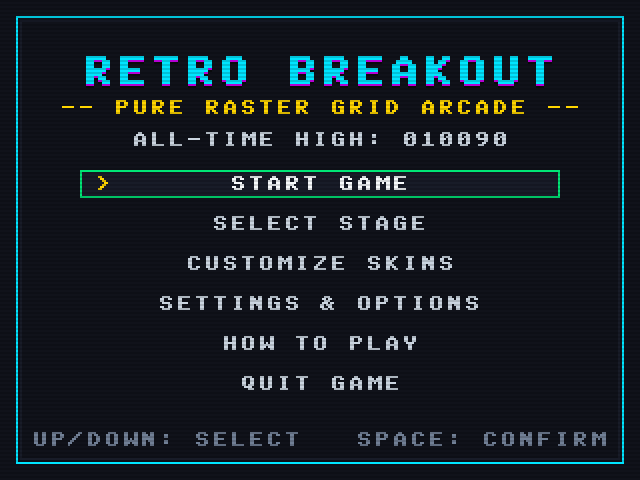
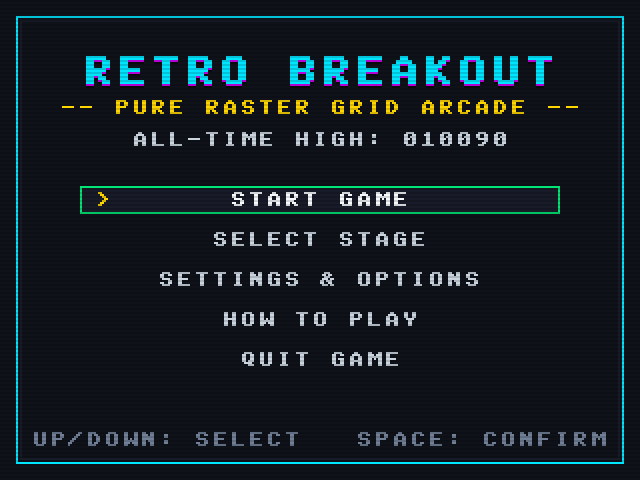
refactor: simplify to board and ball presets in Settings, remove separate customizer

Changed region(s): [[0.125, 0.3438, 0.875, 0.8125]]

diff --git a/src/core/GameEngine.cpp b/src/core/GameEngine.cpp
@@ -122,9 +122,7 @@ void GameEngine::setMouseTargetX(float x) {
 void GameEngine::menuUp() {
     SoundManager::instance().play(SoundEffect::MenuSelect);
     if (m_state == GameState::MainMenu) {
-        m_mainMenuIndex = (m_mainMenuIndex + 5) % 6;
-    } else if (m_state == GameState::CustomizeSkins) {
-        m_customizeMenuIndex = (m_customizeMenuIndex + 2) % 3;
+        m_mainMenuIndex = (m_mainMenuIndex + 4) % 5;
     } else if (m_state == GameState::Paused) {
         m_pauseMenuIndex = (m_pauseMenuIndex + 4) % 5;
     } else if (m_state == GameState::OptionsMenu) {
@@ -137,9 +135,7 @@ void GameEngine::menuUp() {
 void GameEngine::menuDown() {
     SoundManager::instance().play(SoundEffect::MenuSelect);
     if (m_state == GameState::MainMenu) {
-        m_mainMenuIndex = (m_mainMenuIndex + 1) % 6;
-    } else if (m_state == GameState::CustomizeSkins) {
-        m_customizeMenuIndex = (m_customizeMenuIndex + 1) % 3;
+        m_mainMenuIndex = (m_mainMenuIndex + 1) % 5;
     } else if (m_state == GameState::Paused) {
         m_pauseMenuIndex = (m_pauseMenuIndex + 1) % 5;
     } else if (m_state == GameState::OptionsMenu) {
@@ -153,16 +149,6 @@ void GameEngine::menuLeft() {
     if (m_state == GameState::LevelSelect) {
         SoundManager::instance().play(SoundEffect::MenuChange);
         m_levelSelectIndex = (m_levelSelectIndex + m_levelManager.getTotalLevels() - 1) % m_levelManager.getTotalLevels();
-        return;
-    }
-
-    if (m_state == GameState::CustomizeSkins) {
-        SoundManager::instance().play(SoundEffect::MenuChange);
-        if (m_customizeMenuIndex == 0) {
-            setPaddleSkin(static_cast<PaddleSkin>((static_cast<int>(m_paddleSkin) + 3) % 4));
-        } else if (m_customizeMenuIndex == 1) {
-            setBallSkin(static_cast<BallSkin>((static_cast<int>(m_ballSkin) + 3) % 4));
-        }
         return;
     }
 
@@ -181,10 +167,10 @@ void GameEngine::menuLeft() {
             case 3: // Theme
                 m_paletteTheme = static_cast<PaletteTheme>((static_cast<int>(m_paletteTheme) + 5) % 6);
                 break;
-            case 4: // Paddle Skin
+            case 4: // Paddle / Board Preset
                 setPaddleSkin(static_cast<PaddleSkin>((static_cast<int>(m_paddleSkin) + 3) % 4));
                 break;
-            case 5: // Ball Skin
+            case 5: // Ball Preset
                 setBallSkin(static_cast<BallSkin>((static_cast<int>(m_ballSkin) + 3) % 4));
                 break;
             case 6: { // Audio
@@ -211,16 +197,6 @@ void GameEngine::menuRight() {
     if (m_state == GameState::LevelSelect) {
         SoundManager::instance().play(SoundEffect::MenuChange);
         m_levelSelectIndex = (m_levelSelectIndex + 1) % m_levelManager.getTotalLevels();
-        return;
-    }
-
-    if (m_state == GameState::CustomizeSkins) {
-        SoundManager::instance().play(SoundEffect::MenuChange);
-        if (m_customizeMenuIndex == 0) {
-            setPaddleSkin(static_cast<PaddleSkin>((static_cast<int>(m_paddleSkin) + 1) % 4));
-        } else if (m_customizeMenuIndex == 1) {
-            setBallSkin(static_cast<BallSkin>((static_cast<int>(m_ballSkin) + 1) % 4));
-        }
         return;
     }
 
@@ -285,32 +261,18 @@ void GameEngine::menuConfirm() {
                 m_levelSelectIndex = m_levelManager.getCurrentLevelIndex();
                 m_state = GameState::LevelSelect;
                 break;
-            case 2: // Customize Skins
-                m_previousState = GameState::MainMenu;
-                m_customizeMenuIndex = 0;
-                m_state = GameState::CustomizeSkins;
-                break;
-            case 3: // Options
+            case 2: // Options
                 m_previousState = GameState::MainMenu;
                 m_optionsMenuIndex = 0;
                 m_state = GameState::OptionsMenu;
                 break;
-            case 4: // Help
+            case 3: // Help
                 m_previousState = GameState::MainMenu;
                 m_state = GameState::HelpMenu;
                 break;
-            case 5: // Quit
+            case 4: // Quit
                 QCoreApplication::quit();
                 break;
-        }
-        return;
-    }
-
-    if (m_state == GameState::CustomizeSkins) {
-        if (m_customizeMenuIndex == 2) {
-            menuBack();
-        } else {
-            menuRight();
         }
         return;
     }
@@ -365,7 +327,7 @@ void GameEngine::menuConfirm() {
 void GameEngine::menuBack() {
     SoundManager::instance().play(SoundEffect::MenuChange);
     if (m_state == GameState::OptionsMenu || m_state == GameState::LevelSelect ||
-        m_state == GameState::HelpMenu || m_state == GameState::CustomizeSkins) {
+        m_state == GameState::HelpMenu) {
         m_state = m_previousState;
     } else if (m_state == GameState::Playing) {
         m_state = GameState::Paused;
@@ -383,24 +345,13 @@ void GameEngine::handleMouseMove(float vx, float /*vy*/) {
 
 void GameEngine::handleMouseClick(float vx, float vy) {
     if (m_state == GameState::MainMenu) {
-        for (int i = 0; i < 6; ++i) {
-            int itemY = 92 + i * 20;
+        for (int i = 0; i < 5; ++i) {
+            int itemY = 96 + i * 20;
             if (vy >= itemY - 4 && vy <= itemY + 16 && vx >= 40 && vx <= 280) {
                 m_mainMenuIndex = i;
                 menuConfirm();
                 return;
             }
-        }
-        return;
-    } else if (m_state == GameState::CustomizeSkins) {
-        if (vy >= 30 && vy <= 48) {
-            m_customizeMenuIndex = 0;
-            if (vx < 210) menuLeft(); else menuRight();
-        } else if (vy >= 49 && vy <= 68) {
-            m_customizeMenuIndex = 1;
-            if (vx < 210) menuLeft(); else menuRight();
-        } else if (vy >= 185 && vy <= 210) {
-            menuBack();
         }
         return;
     } else if (m_state == GameState::Paused) {
@@ -821,17 +772,16 @@ void GameEngine::renderMainMenu() {
     m_buffer.drawBitmapTextCentered(66, hiStr, Colors::GrayLight, 1);
 
     // Menu options
-    const char* options[6] = {
+    const char* options[5] = {
         (!m_balls.empty() && m_levelTime > 0.1f) ? "RESUME GAME" : "START GAME",
         "SELECT STAGE",
-        "CUSTOMIZE SKINS",
         "SETTINGS & OPTIONS",
         "HOW TO PLAY",
         "QUIT GAME"
     };
 
-    for (int i = 0; i < 6; ++i) {
-        int itemY = 88 + i * 20;
+    for (int i = 0; i < 5; ++i) {
+        int itemY = 96 + i * 20;
         bool selected = (m_mainMenuIndex == i);
 
         if (selected) {
@@ -918,90 +868,6 @@ void GameEngine::renderLevelSelect() {
     m_buffer.drawBitmapTextCentered(212, "LEFT/RIGHT: STAGE   ESC: BACK", Colors::GrayMid, 1);
 }
 
-void GameEngine::renderCustomizeMenu() {
-    m_buffer.drawRect(8, 8, VIRTUAL_WIDTH - 16, VIRTUAL_HEIGHT - 16, Colors::NeonCyan);
-    m_buffer.drawBitmapTextCentered(14, "PADDLE & BALL CUSTOMIZER", Colors::NeonYellow, 1);
-    m_buffer.drawFastHLine(20, VIRTUAL_WIDTH - 20, 26, Colors::GridLine);
-
-    const char* paddleNames[4] = {
-        "< SKATEBOARD >",
-        "< CLASSIC ARCADE >",
-        "< CYBER HOVER >",
-        "< RETRO WOOD >"
-    };
-
-    const char* ballNames[4] = {
-        "< ENERGY ORB >",
-        "< PLASMA CORE >",
-        "< NEON DIAMOND >",
-        "< CYBER CUBE >"
-    };
-
-    // Item 0: Paddle Skin
-    bool sel0 = (m_customizeMenuIndex == 0);
-    int y0 = 34;
-    if (sel0) {
-        m_buffer.fillRect(16, y0 - 3, VIRTUAL_WIDTH - 32, 14, Colors::GridLine);
-        m_buffer.drawRect(16, y0 - 3, VIRTUAL_WIDTH - 32, 14, Colors::NeonCyan);
-        m_buffer.drawBitmapText(22, y0, ">", Colors::NeonYellow, 1);
-    }
-    m_buffer.drawBitmapText(32, y0, "PADDLE SKIN", sel0 ? Colors::White : Colors::GrayLight, 1);
-    m_buffer.drawBitmapText(156, y0, paddleNames[std::clamp(static_cast<int>(m_paddleSkin), 0, 3)], sel0 ? Colors::NeonGreen : Colors::NeonCyan, 1);
-
-    // Item 1: Ball Skin
-    bool sel1 = (m_customizeMenuIndex == 1);
-    int y1 = 51;
-    if (sel1) {
-        m_buffer.fillRect(16, y1 - 3, VIRTUAL_WIDTH - 32, 14, Colors::GridLine);
-        m_buffer.drawRect(16, y1 - 3, VIRTUAL_WIDTH - 32, 14, Colors::NeonCyan);
-        m_buffer.drawBitmapText(22, y1, ">", Colors::NeonYellow, 1);
-    }
-    m_buffer.drawBitmapText(32, y1, "BALL COSMETIC", sel1 ? Colors::White : Colors::GrayLight, 1);
-    m_buffer.drawBitmapText(156, y1, ballNames[std::clamp(static_cast<int>(m_ballSkin), 0, 3)], sel1 ? Colors::NeonGreen : Colors::NeonCyan, 1);
-
-    // Live Showcase Stage Box in Center (y: 68 to 182)
-    int boxX = 24;
-    int boxY = 68;
-    int boxW = VIRTUAL_WIDTH - 48;
-    int boxH = 114;
-    m_buffer.fillRect(boxX, boxY, boxW, boxH, 0xFF0A0E14);
-    m_buffer.drawRect(boxX, boxY, boxW, boxH, Colors::GridLine);
-    m_buffer.drawBitmapTextCentered(boxY + 5, "-- LIVE COSMETIC PREVIEW --", Colors::GrayMid, 1);
-
-    // Draw background retro grid lines
-    for (int gx = boxX + 16; gx < boxX + boxW - 8; gx += 24) {
-        m_buffer.drawFastVLine(gx, boxY + 18, boxY + boxH - 2, 0xFF141A24);
-    }
-
-    // Animated Preview Paddle
-    float animT = m_titleAnimTimer;
-    float prevPaddleX = (VIRTUAL_WIDTH / 2.0f) + std::sin(animT * 2.2f) * 45.0f;
-
-    Paddle dummyPaddle;
-    dummyPaddle.setSkin(m_paddleSkin);
-    dummyPaddle.setPosition(Vec2{prevPaddleX, static_cast<float>(boxY + boxH - 22)});
-    dummyPaddle.render(m_buffer);
-
-    // Animated Preview Ball bouncing over paddle
-    float bounceProgress = std::abs(std::sin(animT * 3.8f));
-    float ballAnimY = (boxY + boxH - 30.0f) - (bounceProgress * 48.0f);
-    float ballAnimX = prevPaddleX + std::cos(animT * 2.2f) * 6.0f;
-    Ball dummyBall(Vec2{ballAnimX, ballAnimY}, Vec2{0.0f, 0.0f});
-    dummyBall.setSkin(m_ballSkin);
-    dummyBall.render(m_buffer);
-
-    // Item 2: Confirm button
-    bool sel2 = (m_customizeMenuIndex == 2);
-    int y2 = 190;
-    if (sel2) {
-        m_buffer.fillRect(50, y2 - 3, VIRTUAL_WIDTH - 100, 14, Colors::GridLine);
-        m_buffer.drawRect(50, y2 - 3, VIRTUAL_WIDTH - 100, 14, Colors::NeonGreen);
-    }
-    m_buffer.drawBitmapTextCentered(y2, "[ CONFIRM & RETURN ]", sel2 ? Colors::NeonYellow : Colors::White, 1);
-
-    m_buffer.drawBitmapTextCentered(216, "LEFT/RIGHT: CYCLE   SPACE: CONFIRM", Colors::GrayMid, 1);
-}
-
 void GameEngine::renderOptionsMenu() {
     m_buffer.drawRect(8, 8, VIRTUAL_WIDTH - 16, VIRTUAL_HEIGHT - 16, Colors::NeonGreen);
     m_buffer.drawBitmapTextCentered(15, "GAME SETTINGS & OPTIONS", Colors::NeonYellow, 1);
@@ -1026,10 +892,10 @@ void GameEngine::renderOptionsMenu() {
     };
     const char* themeStr = themeNames[std::clamp(static_cast<int>(m_paletteTheme), 0, 5)];
 
-    const char* paddleNames[4] = {"< SKATEBOARD >", "< ARCADE >", "< HOVER >", "< RETRO WOOD >"};
+    const char* paddleNames[4] = {"< SKATEBOARD >", "< CLASSIC >", "< CYBER HOVER >", "< RETRO WOOD >"};
     const char* paddleStr = paddleNames[std::clamp(static_cast<int>(m_paddleSkin), 0, 3)];
 
-    const char* ballNames[4] = {"< ENERGY ORB >", "< PLASMA >", "< DIAMOND >", "< CYBER CUBE >"};
+    const char* ballNames[4] = {"< ENERGY ORB >", "< PLASMA CORE >", "< NEON DIAMOND >", "< CYBER CUBE >"};
     const char* ballStr = ballNames[std::clamp(static_cast<int>(m_ballSkin), 0, 3)];
 
     char audioBuf[32];
@@ -1051,8 +917,8 @@ void GameEngine::renderOptionsMenu() {
         {"START LIVES", livesBuf},
         {"CRT SCANLINES", crtStr},
         {"COLOR PALETTE", themeStr},
-        {"PADDLE SKIN", paddleStr},
-        {"BALL COSMETIC", ballStr},
+        {"BOARD PRESET", paddleStr},
+        {"BALL PRESET", ballStr},
         {"AUDIO VOLUME", audioBuf},
         {"MOUSE PADDLE", mouseStr},
         {"[ BACK TO MENU ]", ""}
@@ -1246,13 +1112,6 @@ void GameEngine::render() {
 
     if (m_state == GameState::HelpMenu) {
         renderHelpMenu();
-        m_buffer.applyScanlineFilter(m_crtMode);
-        m_buffer.applyThemeFilter(m_paletteTheme);
-        return;
-    }
-
-    if (m_state == GameState::CustomizeSkins) {
-        renderCustomizeMenu();
         m_buffer.applyScanlineFilter(m_crtMode);
         m_buffer.applyThemeFilter(m_paletteTheme);
         return;

diff --git a/src/core/Config.h b/src/core/Config.h
@@ -76,10 +76,9 @@ constexpr uint32_t BrickGold   = 0xFFFFB300;
 } // namespace Colors
 
 enum class GameState {
-    MainMenu,       // Retro title & main options: Start, Levels, Skins, Settings, Help, Quit
+    MainMenu,       // Retro title & main options: Start, Levels, Settings, Help, Quit
     LevelSelect,    // Interactive stage select with preview
-    CustomizeSkins, // Skateboard & ball skin customizer with live preview
-    OptionsMenu,    // Seamless in-game options: speed, lives, scanlines, theme, volume, mouse
+    OptionsMenu,    // In-game options: speed, lives, scanlines, theme, board/ball presets, audio, mouse
     HelpMenu,       // How to play & power-up guide
     Ready,       // Ball on paddle, waiting for Space/Launch
     Playing,     // Ball active

diff --git a/src/main.cpp b/src/main.cpp
@@ -31,19 +31,9 @@ static void generateDemoScreenshots() {
         saveFrame(engine, "assets/screenshots/demo_stage_select.png");
     }
 
-    // 3. Customize Skins Menu
+    // 3. Options Menu (Neovim Palette)
     {
         Breakout::GameEngine engine;
-        engine.menuDown();
-        engine.menuDown();
-        engine.menuConfirm();
-        saveFrame(engine, "assets/screenshots/demo_customize_menu.png");
-    }
-
-    // 4. Options Menu (Neovim Palette)
-    {
-        Breakout::GameEngine engine;
-        engine.menuDown();
         engine.menuDown();
         engine.menuDown();
         engine.menuConfirm();

diff --git a/src/core/GameEngine.h b/src/core/GameEngine.h
@@ -96,7 +96,6 @@ private:
     void renderOverlays();
     void renderMainMenu();
     void renderLevelSelect();
-    void renderCustomizeMenu();
     void renderOptionsMenu();
     void renderHelpMenu();
     void renderPauseMenu();
@@ -128,7 +127,6 @@ private:
     int m_pauseMenuIndex = 0;
     int m_optionsMenuIndex = 0;
     int m_levelSelectIndex = 0;
-    int m_customizeMenuIndex = 0;
 
     // Modifiers & settings
     float m_difficultyMultiplier = 1.0f;

diff --git a/README.md b/README.md
@@ -17,13 +17,9 @@ A modern, high-performance arcade Breakout experience engineered in **C++20** an
 | :---: | :---: |
 | ![Main Menu](assets/screenshots/demo_main_menu.png) | ![Stage Select](assets/screenshots/demo_stage_select.png) |
 
-| Skin Customizer | Settings & Options |
+| Settings & Presets | Stage 2: Neovim Green-Cyan Theme |
 | :---: | :---: |
-| ![Skin Customizer](assets/screenshots/demo_customize_menu.png) | ![Options Menu](assets/screenshots/demo_options_menu.png) |
-
-| Stage 2: Neovim Green-Cyan Theme | Stage 3: Gruvbox Theme |
-| :---: | :---: |
-| ![Neovim Palette](assets/screenshots/demo_gameplay_nvim.png) | ![Gruvbox Palette](assets/screenshots/demo_gameplay_gruvbox.png) |
+| ![Options Menu](assets/screenshots/demo_options_menu.png) | ![Neovim Palette](assets/screenshots/demo_gameplay_nvim.png) |
 
 ---
 
@@ -35,11 +31,10 @@ A modern, high-performance arcade Breakout experience engineered in **C++20** an
   - Six curated colorways: **Neon Arcade**, **Dark OLED**, **Gruvbox**, **Neovim** (cool green-cyan), **Game Boy**, and **Amber CRT**.
   - Configurable CRT scanline simulation.
 
-- **Paddle & Ball Cosmetics**:
-  - Selectable directly from the Main Menu (`CUSTOMIZE SKINS`) or in-game Settings.
-  - **Paddle Skins**: Street Skateboard (grip tape, kicktails, trucks & urethane wheels), Classic Arcade, Cyber Hovercraft, and Retro Wood.
-  - **Ball Cosmetics**: Energy Orb, Plasma Core, Neon Diamond, and Cyber Cube.
-  - Live animated preview stage in the customizer menu.
+- **Board & Ball Presets**:
+  - Selectable directly inside **Settings & Options**.
+  - **Board Presets**: Street Skateboard (grip tape, kicktails, trucks & urethane wheels), Classic Arcade, Cyber Hovercraft, and Retro Wood.
+  - **Ball Presets**: Energy Orb, Plasma Core, Neon Diamond, and Cyber Cube.
 
 - **Continuous Sub-Stepped Physics**:
   - 4 sub-steps per frame physics integration to eliminate tunneling at extreme ball speeds.
@@ -169,8 +164,8 @@ Breakout-game/
     │   ├── BitmapFont.h/cpp    # 8x8 bitmap font glyph table
     │   └── ParticleSystem.h/cpp# Software sparks, debris, and explosions
     ├── entities/
-    │   ├── Paddle.h/cpp        # Paddle skins (Skateboard, etc.) & blasters
-    │   ├── Ball.h/cpp          # Ball cosmetics, deflection math, and trails
+    │   ├── Paddle.h/cpp        # Board presets (Skateboard, Classic, Hover, Wood) & blasters
+    │   ├── Ball.h/cpp          # Ball presets (Energy Orb, Plasma, Diamond, Cube)
     │   ├── Brick.h/cpp         # Health, fracture stages, and bevel rendering
     │   ├── PowerUp.h/cpp       # Power-up items and active timers
     │   └── Laser.h/cpp         # Twin blasters
